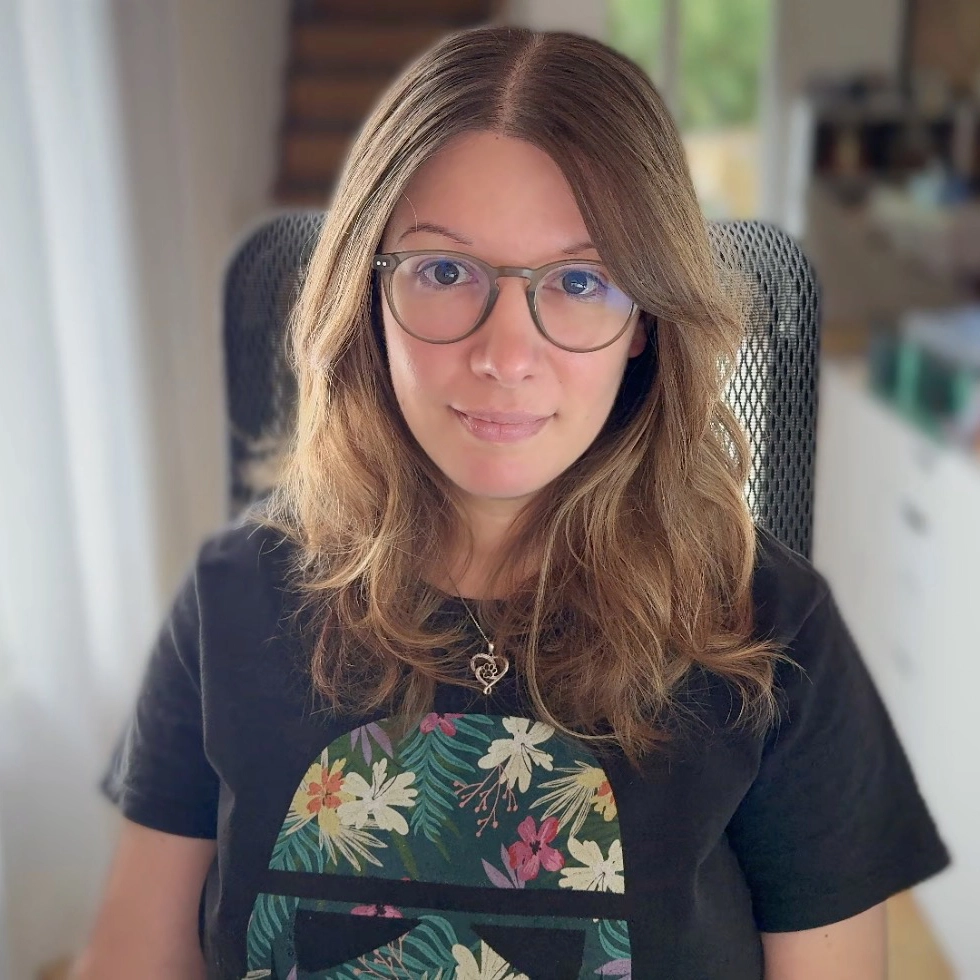
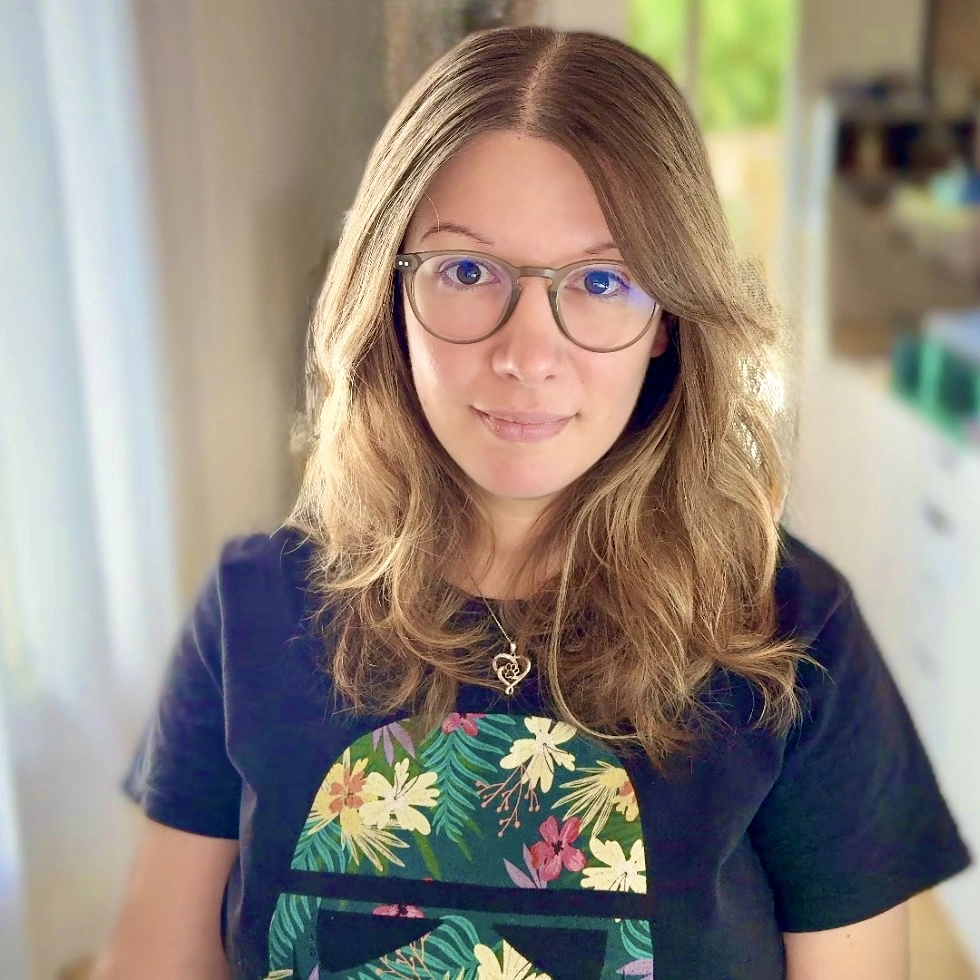
🚧 Fix bugs and refactor code

diff --git a/src/components/sections/ProjectsSection.vue b/src/components/sections/ProjectsSection.vue
@@ -1,26 +1,15 @@
 <script setup>
 import data from '@/assets/data/projects.json' with { type: 'json'};
 import { Code, ChevronLeft, ChevronRight } from '@lucide/vue';
-import {computed, onBeforeUnmount, onMounted, ref} from "vue";
+import {computed, ref} from "vue";
+import SeeMore from "@/components/ui/SeeMore.vue";
+import { useMediaQuery, MD_QUERY } from "@/composables/useMediaQuery";
+import { usePagination } from "@/composables/usePagination";
 
-const nbProjects = ref(3);
-const isCarousel = ref(false);
+const isCarousel = useMediaQuery(MD_QUERY);
 const track = ref(null);
-let mediaQuery;
 
-function handleMediaChange(e) {
-  isCarousel.value = e.matches;
-}
-
-onMounted(() => {
-  mediaQuery = window.matchMedia('(min-width: 768px)');
-  handleMediaChange(mediaQuery);
-  mediaQuery.addEventListener('change', handleMediaChange);
-});
-
-onBeforeUnmount(() => {
-  mediaQuery?.removeEventListener('change', handleMediaChange);
-});
+const { count: nbProjects, hasMore: paginationHasMore, seeMore } = usePagination(data.length);
 
 const projects = computed(() =>
   isCarousel.value
@@ -28,11 +17,7 @@ const projects = computed(() =>
     : data.filter((project) => project.position <= nbProjects.value)
 );
 
-const hasMore = computed(() => !isCarousel.value && nbProjects.value < data.length);
-
-function seeMore() {
-  nbProjects.value += 3;
-}
+const hasMore = computed(() => !isCarousel.value && paginationHasMore.value);
 
 function scrollByCard(direction) {
   if (!track.value) return;
@@ -73,7 +58,7 @@ function scrollByCard(direction) {
       </button>
     </div>
 
-    <button v-if="hasMore" @click="seeMore()">Voir plus</button>
+    <SeeMore :has-more="hasMore" @see-more="seeMore" />
   </section>
 </template>
 
@@ -160,13 +145,6 @@ section {
       display: flex;
       gap: $size-6
     }
-  }
-
-  button {
-    @include button-secondary();
-    @include glass-soft($size-12, $size-8 $size-12, $size-32);
-    align-self: center;
-    cursor: pointer;
   }
 
   @media (min-width: $md) {

diff --git a/src/components/sections/HeroSection.vue b/src/components/sections/HeroSection.vue
@@ -1,7 +1,9 @@
 <script setup>
-import DownloadCV from "@/components/ui/DownloadCV.vue";
 import { useSmoothScroll } from "@/composables/useSmoothScroll";
 import {ArrowRight} from "@lucide/vue";
+import CV from "@/components/ui/CV.vue";
+
+const profileImg = `${import.meta.env.BASE_URL}images/photo-profil.webp`;
 
 const { onAnchorClick } = useSmoothScroll({
   offset: () => document.querySelector('header')?.getBoundingClientRect().bottom ?? 0,
@@ -9,7 +11,7 @@ const { onAnchorClick } = useSmoothScroll({
 </script>
 
 <template>
-  <section class="about">
+  <section id="about">
     <div class="container-hero">
       <div class="flash">
         <span></span>
@@ -19,7 +21,7 @@ const { onAnchorClick } = useSmoothScroll({
       <p>Développeuse fullstack, j'aime construire des solutions qui rendent <strong>service</strong> aux professionnels et améliorent leur quotidien.</p>
       <div class="buttons">
         <a href="#projects" @click="onAnchorClick">Voir mes projets</a>
-        <DownloadCV />
+        <CV text="Télécharger le CV" />
       </div>
     </div>
     <div class="container">
@@ -30,7 +32,7 @@ const { onAnchorClick } = useSmoothScroll({
     </div>
     <div class="sidebar">
       <div class="img-container">
-        <img src="/public/images/photo-profil.webp" alt="Portrait Elodie Gateau">
+        <img :src="profileImg" alt="Portrait Elodie Gateau">
       </div>
       <div class="resume">
         <div>
@@ -193,7 +195,7 @@ h3 {
 }
 
 @media (min-width: $md) {
-  .about {
+  #about {
     display: grid;
     grid-template-columns: repeat(12, 1fr);
     grid-template-rows: auto auto;

diff --git a/src/components/ui/Nav.vue b/src/components/ui/Nav.vue
@@ -1,12 +1,17 @@
 <script setup>
 import { Menu, CircleX } from '@lucide/vue';
-import { ref } from "vue";
-import DownloadCV from "@/components/ui/DownloadCV.vue";
+import { ref, watch } from "vue";
 import { useSmoothScroll } from "@/composables/useSmoothScroll";
+import { useMediaQuery, MD_QUERY } from "@/composables/useMediaQuery";
 import CV from "@/components/ui/CV.vue";
 
 const isOpen = ref(false);
 const toggle = () => isOpen.value = !isOpen.value;
+const isDesktop = useMediaQuery(MD_QUERY);
+
+watch(isDesktop, (desktop) => {
+  if (desktop) isOpen.value = false;
+});
 
 const { onAnchorClick } = useSmoothScroll({
   offset: () => document.querySelector('header')?.getBoundingClientRect().bottom ?? 0,
@@ -33,7 +38,7 @@ function onNavLinkClick(event) {
           <li><a href="#projects" @click="onNavLinkClick">Projets</a></li>
           <li><a href="#background" @click="onNavLinkClick">Parcours</a></li>
           <li><a href="#contact" @click="onNavLinkClick">Contact</a></li>
-          <li class="btn-primary"><DownloadCV /></li>
+          <li class="btn-primary" @click="isOpen = false"><CV text="Télécharger le CV" /></li>
         </ul>
       </nav>
     </Transition>
@@ -46,7 +51,7 @@ function onNavLinkClick(event) {
       <li><a href="#projects" @click="onNavLinkClick">Projets</a></li>
       <li><a href="#background" @click="onNavLinkClick">Parcours</a></li>
       <li><a href="#contact" @click="onNavLinkClick">Contact</a></li>
-      <li class="btn-primary"><CV /></li>
+      <li class="btn-primary"><CV  text="CV"/></li>
     </ul>
   </nav>
 </template>

diff --git a/src/components/sections/BackgroundSection.vue b/src/components/sections/BackgroundSection.vue
@@ -1,18 +1,14 @@
 <script setup>
 import experiences from '@/assets/data/experiences.json' with { type: 'json'};
-import {computed, ref} from "vue";
+import {computed} from "vue";
+import SeeMore from "@/components/ui/SeeMore.vue";
+import { usePagination } from "@/composables/usePagination";
 
-const nbExperience = ref(3);
+const { count: nbExperience, hasMore, seeMore } = usePagination(experiences.length);
 
 const displayedExperiences = computed(() =>
   experiences.slice(0, nbExperience.value)
 );
-
-const hasMore = computed(() => nbExperience.value < experiences.length);
-
-function seeMore() {
-  nbExperience.value += 3;
-}
 </script>
 
 <template>
@@ -29,7 +25,7 @@ function seeMore() {
       </ul>
     </div>
   </div>
-  <button v-if="hasMore" @click="seeMore()">Voir plus</button>
+  <SeeMore class="see-more" :has-more="hasMore" @see-more="seeMore" />
 </section>
 </template>
 
@@ -37,7 +33,6 @@ function seeMore() {
 @use "@/assets/style/glassPanel" as *;
 @use "@/assets/style/variables" as *;
 @use "@/assets/style/typography" as *;
-@use "@/assets/style/button" as *;
 
 section {
   @include glass-default($radius-xl, $size-24);
@@ -123,12 +118,8 @@ section {
     }
   }
 
-  button {
-    @include button-secondary();
-    @include glass-soft($size-12, $size-8 $size-12, $size-32);
-    align-self: center;
+  .see-more {
     margin-top: $size-24;
-    cursor: pointer;
   }
 }
 </style>

diff --git a/src/composables/useSmoothScroll.js b/src/composables/useSmoothScroll.js
@@ -6,8 +6,15 @@ export function useSmoothScroll({ duration = 600, offset = 0 } = {}) {
   const prefersReducedMotion = () =>
     window.matchMedia('(prefers-reduced-motion: reduce)').matches;
 
+  let activeFrame = null;
+
   function scrollToElement(el) {
     if (!el) return;
+
+    if (activeFrame !== null) {
+      cancelAnimationFrame(activeFrame);
+      activeFrame = null;
+    }
 
     const resolvedOffset = typeof offset === 'function' ? offset() : offset;
     const targetY = el.getBoundingClientRect().top + window.scrollY - resolvedOffset;
@@ -25,10 +32,10 @@ export function useSmoothScroll({ duration = 600, offset = 0 } = {}) {
       const elapsed = now - startTime;
       const progress = Math.min(elapsed / duration, 1);
       window.scrollTo(0, startY + distance * easeInOutQuad(progress));
-      if (progress < 1) requestAnimationFrame(step);
+      activeFrame = progress < 1 ? requestAnimationFrame(step) : null;
     }
 
-    requestAnimationFrame(step);
+    activeFrame = requestAnimationFrame(step);
   }
 
   function scrollToId(id) {

diff --git a/src/components/sections/ContactSection.vue b/src/components/sections/ContactSection.vue
@@ -1,6 +1,6 @@
 <script setup>
 import { ArrowUpRight } from '@lucide/vue';
-import DownloadCV from "@/components/ui/DownloadCV.vue";
+import CV from "@/components/ui/CV.vue";
 
 const links = [
   { label: 'GitHub', href: 'https://github.com/Elodie-Gateau' },
@@ -19,8 +19,8 @@ const links = [
       </div>
     </div>
     <div class="side">
-      <div class="btn-primary"><DownloadCV /></div>
-      <div CLASS="socials">
+      <div class="btn-primary"><CV text="Télécharger le CV"/></div>
+      <div class="socials">
         <a
           v-for="link in links"
           :key="link.label"

diff --git a/src/composables/useMediaQuery.js b/src/composables/useMediaQuery.js
@@ -1,0 +1,24 @@
+import { onBeforeUnmount, onMounted, ref } from "vue";
+
+export const MD_QUERY = "(min-width: 768px)";
+
+export function useMediaQuery(query) {
+  const matches = ref(false);
+  let mediaQuery;
+
+  function handleChange(e) {
+    matches.value = e.matches;
+  }
+
+  onMounted(() => {
+    mediaQuery = window.matchMedia(query);
+    handleChange(mediaQuery);
+    mediaQuery.addEventListener('change', handleChange);
+  });
+
+  onBeforeUnmount(() => {
+    mediaQuery?.removeEventListener('change', handleChange);
+  });
+
+  return matches;
+}

diff --git a/src/components/ui/SeeMore.vue b/src/components/ui/SeeMore.vue
@@ -1,0 +1,27 @@
+<script setup>
+defineProps({
+  hasMore: {
+    type: Boolean,
+    required: true,
+  },
+});
+
+defineEmits(['see-more']);
+</script>
+
+<template>
+  <button v-if="hasMore" @click="$emit('see-more')">Voir plus</button>
+</template>
+
+<style scoped lang="scss">
+@use "@/assets/style/glassPanel" as *;
+@use "@/assets/style/variables" as *;
+@use "@/assets/style/button" as *;
+
+button {
+  @include button-secondary();
+  @include glass-soft($size-12, $size-8 $size-12, $size-32);
+  align-self: center;
+  cursor: pointer;
+}
+</style>

diff --git a/src/components/ui/CV.vue b/src/components/ui/CV.vue
@@ -1,5 +1,12 @@
 <script setup>
 import {ArrowDownToLine} from "@lucide/vue";
+defineProps({
+  text: {
+    type: String,
+    required: true,
+  }
+})
+
 function downloadCV() {
   const link = document.createElement("a");
   link.href = `${import.meta.env.BASE_URL}upload/CV_ElodieGateau.pdf`;
@@ -9,7 +16,7 @@ function downloadCV() {
 </script>
 
 <template>
-  <button @click="downloadCV()">CV<ArrowDownToLine /></button>
+  <button @click="downloadCV()">{{ text }}<ArrowDownToLine /></button>
 </template>
 
 <style scoped lang="scss">

diff --git a/src/composables/usePagination.js b/src/composables/usePagination.js
@@ -1,0 +1,12 @@
+import { computed, ref } from "vue";
+
+export function usePagination(total, step = 3) {
+  const count = ref(step);
+  const hasMore = computed(() => count.value < total);
+
+  function seeMore() {
+    count.value += step;
+  }
+
+  return { count, hasMore, seeMore };
+}

diff --git a/src/App.vue b/src/App.vue
@@ -30,10 +30,4 @@ import AppFooter from "@/components/layout/AppFooter.vue";
   position: relative;
   min-height: 100vh;
 }
-
-
-@keyframes drift {
-  0%, 100% { transform: translate(0, 0) scale(1); }
-  50% { transform: translate(26px, -20px) scale(1.08); }
-}
 </style>

diff --git a/src/components/layout/AppHeader.vue b/src/components/layout/AppHeader.vue
@@ -16,6 +16,7 @@ onMounted(() => {
   updateHeaderHeight();
   resizeObserver = new ResizeObserver(updateHeaderHeight);
   resizeObserver.observe(headerEl.value);
+  document.fonts?.ready.then(updateHeaderHeight);
 });
 
 onBeforeUnmount(() => {
